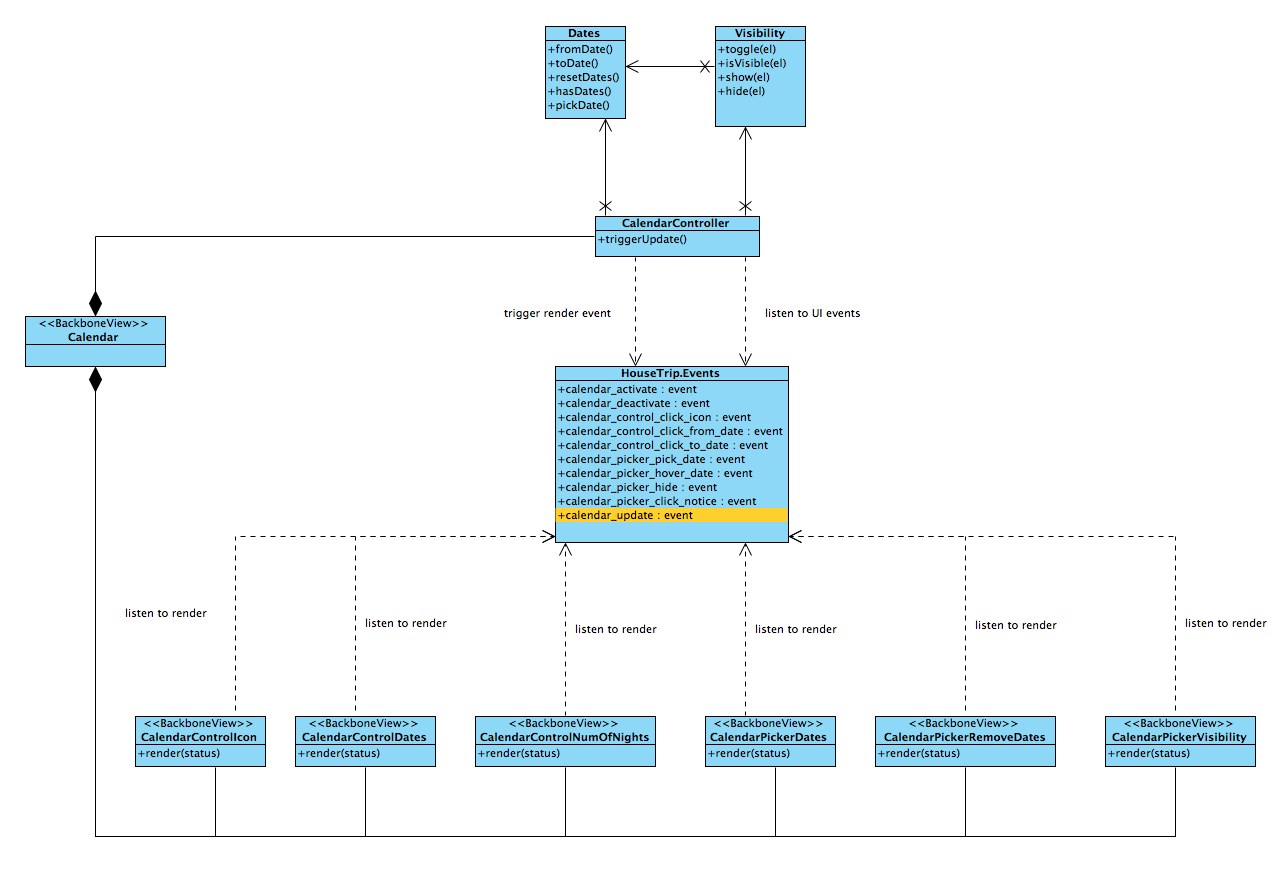
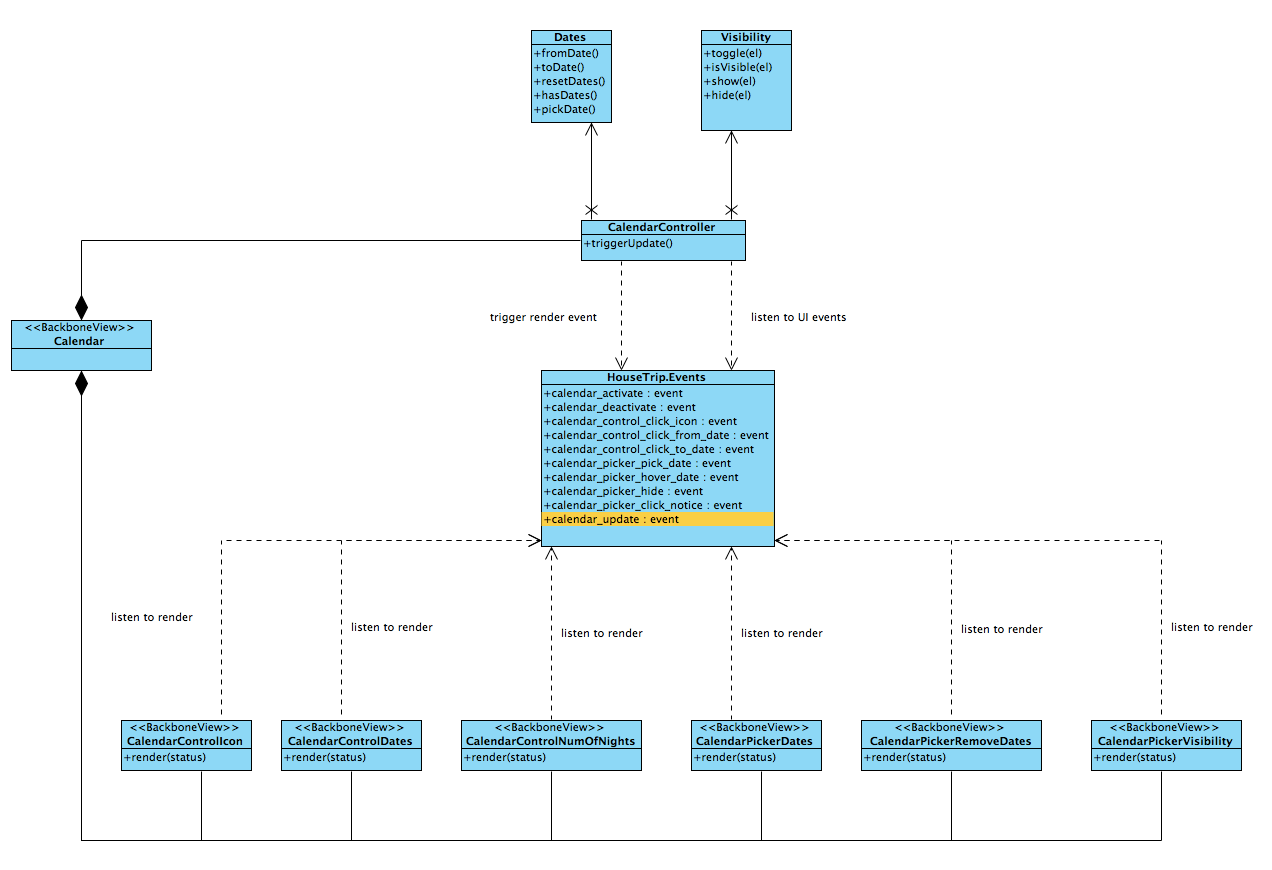
Some fixing around the class diagram and slimming more code

diff --git a/_posts/2014-11-25-calendar-refactoring.md b/_posts/2014-11-25-calendar-refactoring.md
@@ -106,21 +106,7 @@ Finally the original *calendar* class now have the responsibility to compose the
 
 {% img /images/2014-11-25/calendar_new_class_diagram.png 600 %}
 
-The typical interaction starts from the user clicking on some UI element. The backbone view associated to this area of the DOM capture the UI event and triggers the corresponding pub/sub event in the *HouseTrip.events* bus. The controller is subscribed to all the calendar events and work out what it should do for each of them orchestrating the domain objects. Finally, the controller trigger a *calendar:update* event to which the views are subscribed. This event provides a status read-only object that *serialise* the domain entities to be read by the view. This is a maybe unnecessary indirection that I introduced but I found it useful to separate the domain objects from the information needed by the views to be rendered. This is definitely an arguable design decision and the rationale behind it is to further decrese the coupling between the layers. Here it is the status object in all its glory:
-
-<pre>  
-  var status = {
-    active: this.visibility.isVisible('active'),
-    controlVisible: this.visibility.isVisible('control'),
-    pickerVisible: this.visibility.isVisible('picker'),
-    fromDate: this.dates.fromDate(),
-    toDate: this.dates.toDate(),
-    onFromDate: this.dates.is('onFromDate'),
-    onToDate: this.dates.is('onToDate'),
-    hoveredDate: this.hoveredDate,
-    hovering: event == 'onHoverDate'
-  };
-</pre>
+The typical interaction starts from the user clicking on some UI element. The backbone view associated to this area of the DOM capture the UI event and triggers the corresponding pub/sub event in the *HouseTrip.events* bus. The controller is subscribed to all the calendar events and work out what it should do for each of them orchestrating the domain objects. Finally, the controller trigger a *calendar:update* event to which the views are subscribed. This event provides a *status* object that *serialise* the domain entities to be read by the view. This is a maybe unnecessary indirection that I introduced but I found it useful to separate the domain objects from the information needed by the views to be rendered. You can find the details in the [controller code](#controller-code) shown in the next section.
 
 An example of interactions between these objects is shown in the sequence diagram underneath which starts when the user select a date from the picker panel:
 
@@ -173,7 +159,7 @@ _.extend(HouseTrip.Views.SearchBarCalendar.prototype, HouseTrip.Helpers.Delegati
 
 Here, arguably, we achieved a pretty good degree of *cohesiveness* and *composability* which are order of magnitudes above the previous implementation. In terms of coupling this class is only creating the sub-views but actually does not rely on them, so I am also confident that this is *loosely coupled*. On the other hand I don't think this class is context independent and this is why is namespaced under *SearchBar*. 
 
-Let's look at the controller now:
+Let's look at the <a name="controller-code">controller</a> now:
 
 <pre class="lang:js decode:true " title="the calendar controller" >
 HouseTrip.SearchBarCalendarController = function() {
@@ -207,9 +193,8 @@ HouseTrip.SearchBarCalendarController.prototype = _.extend({
       fromDate: this.dates.fromDate(),
       toDate: this.dates.toDate(),
       onFromDate: this.dates.is('onFromDate'),
-      onToDate: this.dates.is('onToDate'),
-      hoveredDate: this.hoveredDate,
-      hovering: event == 'onHoverDate'
+      onToDate: this.dates.is('onToDate')
+      // ...some more attributes for hovering state
     };
 
     HouseTrip.Events.trigger('search_bar:calendar:update', status);
@@ -277,7 +262,7 @@ Here I truly believe you can see the advantage of the approach. The view is *hig
 
 To wrap up this evaluation let's see the updated stats that Plato provides us:
 
-{% img /images/2014-11-25/plato_new_calendar.png %}
+{% img /images/2014-11-25/plato_new_calendar.png 500 %}
 
 We can make some simple observations on these data: 
 
